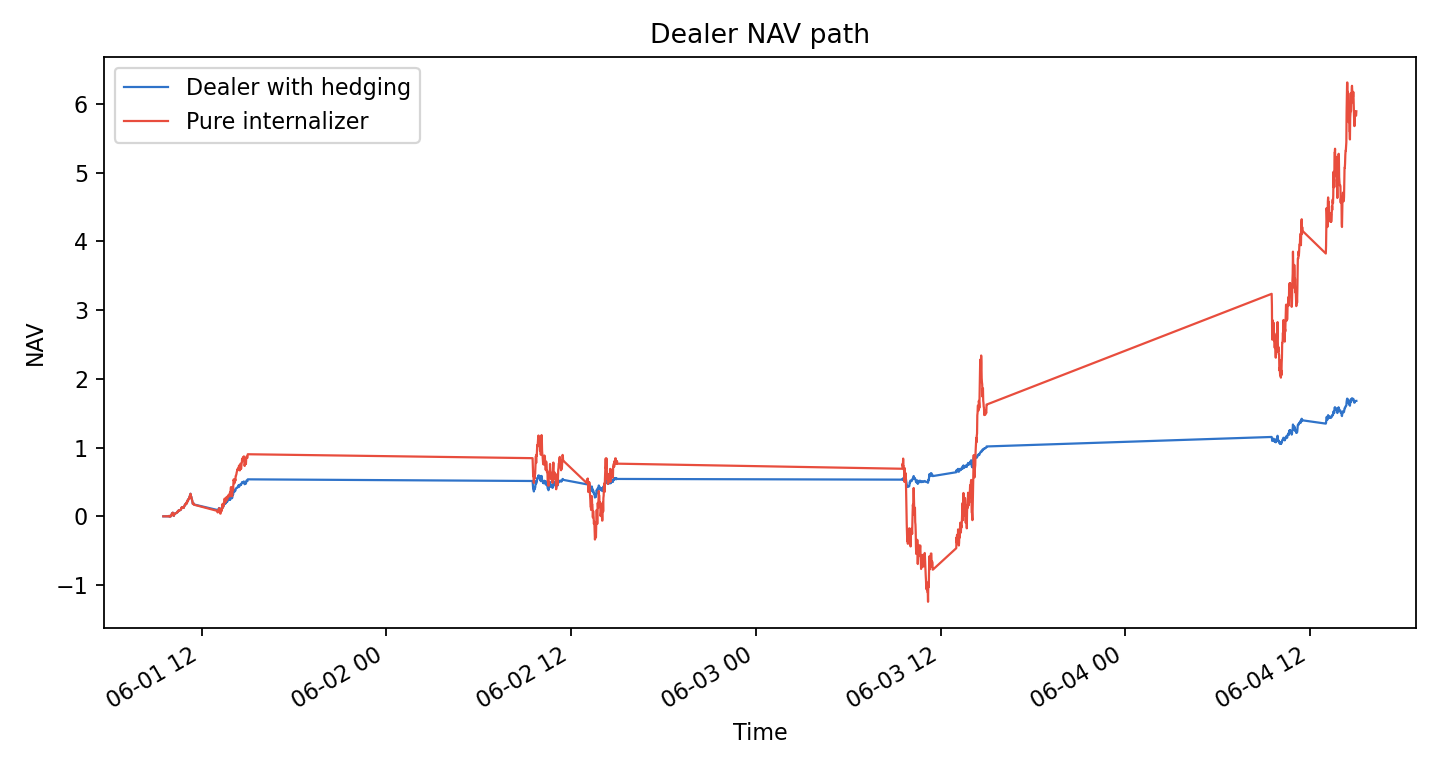
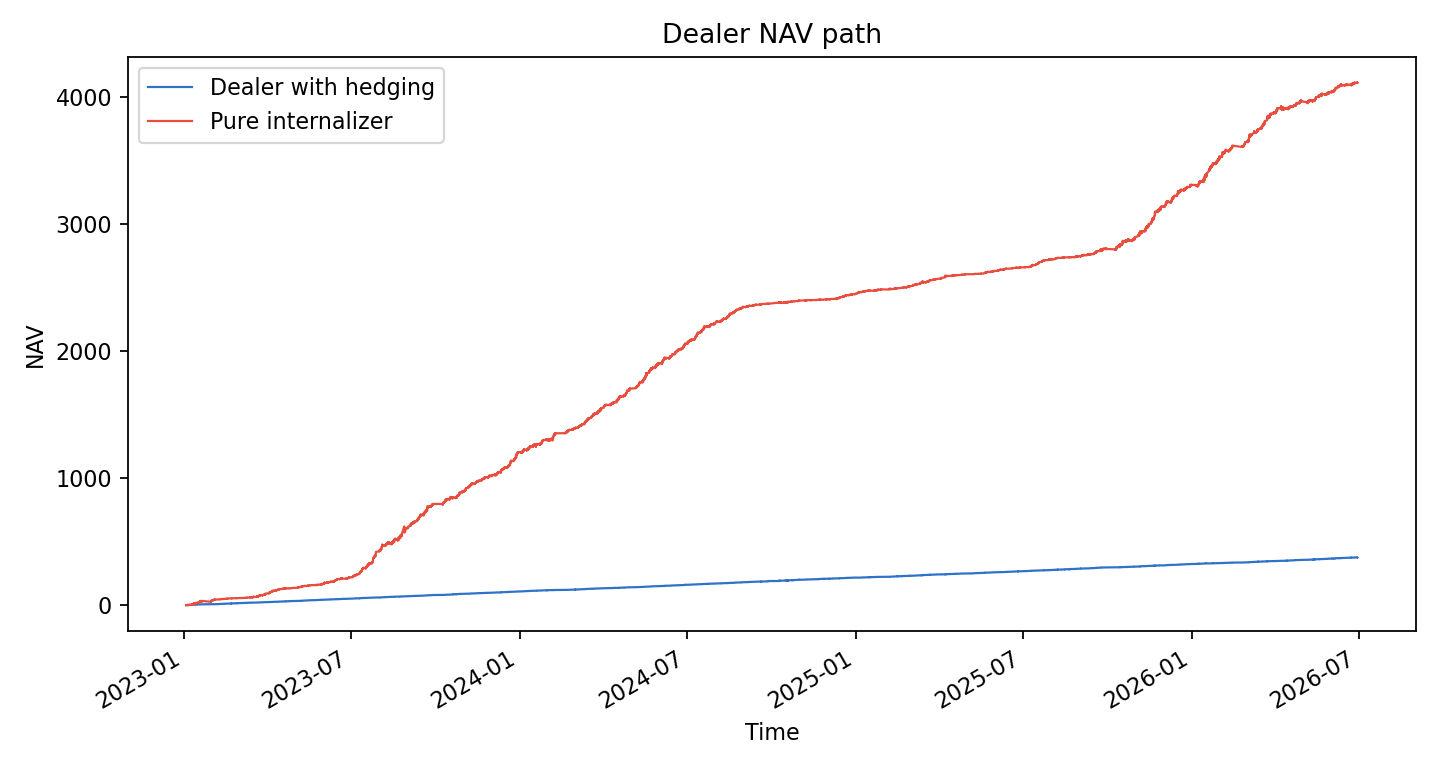
research: extend dealer hedging minute backtest

diff --git a/scripts/run_research_pipeline.py b/scripts/run_research_pipeline.py
@@ -22,10 +22,27 @@ from src.dealer_model import DealerParams, hedge_quantity, quote_adjustment
 
 
 def fetch_minute(ts_code: str, start_date: str, end_date: str) -> pd.DataFrame:
-    df = ts.pro_bar(ts_code=ts_code, start_date=start_date, end_date=end_date, freq="1min", asset="FD", adj=None)
-    if df is None or df.empty:
+    start = pd.to_datetime(start_date, format="%Y%m%d")
+    end = pd.to_datetime(end_date, format="%Y%m%d")
+    frames = []
+    for month_start in pd.date_range(start=start.replace(day=1), end=end, freq="MS"):
+        chunk_start = max(month_start, start)
+        chunk_end = min(month_start + pd.offsets.MonthEnd(0), end)
+        df = ts.pro_bar(
+            ts_code=ts_code,
+            start_date=chunk_start.strftime("%Y%m%d"),
+            end_date=chunk_end.strftime("%Y%m%d"),
+            freq="1min",
+            asset="FD",
+            adj=None,
+        )
+        if df is not None and not df.empty:
+            frames.append(df)
+    if not frames:
         raise RuntimeError("No minute data returned from Tushare.")
+    df = pd.concat(frames, ignore_index=True)
     df = df.sort_values("trade_time").reset_index(drop=True)
+    df = df.drop_duplicates(subset=["ts_code", "trade_time"], keep="last").reset_index(drop=True)
     df["trade_time"] = pd.to_datetime(df["trade_time"])
     return df
 
@@ -123,7 +140,7 @@ def plot(paths: pd.DataFrame, out_dir: Path) -> None:
 def main() -> None:
     parser = argparse.ArgumentParser()
     parser.add_argument("--ts-code", default="510300.SH")
-    parser.add_argument("--start-date", default="20260601")
+    parser.add_argument("--start-date", default="20230101")
     parser.add_argument("--end-date", default="20260605")
     parser.add_argument("--seed", type=int, default=20260706)
     args = parser.parse_args()

diff --git a/README.md b/README.md
@@ -21,7 +21,7 @@
 
 本项目复现 Barzykin, Bergault 与 Guéant 的前沿论文 **Algorithmic market making in dealer markets with hedging and market impact** 的核心思想：dealer 不必永远只靠客户报价 internalize 库存风险；当库存超出合理区间时，可以通过外部市场对冲，把风险外部化，但要付出市场冲击成本。
 
-使用 Tushare `510300.SH` 沪深 300 ETF 的 1 分钟数据做代理回测。窗口为 `2026-06-01 09:30:00` 到 `2026-06-04 15:00:00`，共 964 条分钟 bar。带 hedge 的 dealer 库存标准差为 **3.18**，低于纯 internalizer 的 **17.73**；NAV 波动为 **0.46**，低于纯 internalizer 的 **1.80**。代价是最终 NAV 从 **5.89** 降至 **1.68**。
+使用 Tushare `510300.SH` 沪深 300 ETF 的 1 分钟数据做代理回测。窗口为 `2023-01-03 09:30:00` 到 `2026-06-29 15:00:00`，共 **196,415** 条分钟 bar。带 hedge 的 dealer 库存标准差为 **5.24**，低于纯 internalizer 的 **144.60**；NAV 波动为 **108.46**，低于纯 internalizer 的 **1193.06**。代价是最终 NAV 从 **4111.29** 降至 **375.82**。
 
 ### 快速导航
 
@@ -70,8 +70,8 @@
 | 字段 | 数值 |
 |---|---:|
 | 标的 | `510300.SH` 沪深 300 ETF |
-| 窗口 | `2026-06-01 09:30:00` 至 `2026-06-04 15:00:00` |
-| 分钟观测数 | 964 |
+| 窗口 | `2023-01-03 09:30:00` 至 `2026-06-29 15:00:00` |
+| 分钟观测数 | 196,415 |
 | Level2 | 不可用，当前为分钟 bar + 客户流代理 |
 | hedge 阈值 | 8 |
 | hedge 比例 | 55% 的超额库存 |
@@ -84,8 +84,8 @@
 
 | 策略 | 最终 NAV | NAV std | 库存均值 | 库存 std | 平均绝对库存 | 客户成交 | hedge 次数 |
 |---|---:|---:|---:|---:|---:|---:|---:|
-| 带 hedge 的 dealer | 1.68 | **0.46** | -4.81 | **3.18** | **5.14** | 210 | 54 |
-| 纯 internalizer | **5.89** | 1.80 | -30.20 | 17.73 | 30.35 | 210 | 0 |
+| 带 hedge 的 dealer | 375.82 | **108.46** | 0.05 | **5.24** | **4.54** | 43,008 | 9,137 |
+| 纯 internalizer | **4111.29** | 1193.06 | 23.96 | 144.60 | 120.02 | 43,008 | 0 |
 
 结果解释：外部 hedge 降低库存风险和 NAV 波动，但牺牲短窗口利润。这个风险-收益取舍正是论文的核心机制。
 
@@ -125,8 +125,8 @@ pip install -r requirements.txt
 
 python scripts/run_research_pipeline.py \
   --ts-code 510300.SH \
-  --start-date 20260601 \
-  --end-date 20260605
+  --start-date 20230101 \
+  --end-date 20260630
 
 python -m pytest -q
 ```
@@ -139,7 +139,7 @@ python -m pytest -q
 
 This project reproduces the core idea of Barzykin, Bergault, and Guéant, **Algorithmic market making in dealer markets with hedging and market impact**: a dealer can internalize client flow inside an inventory band, but externalize inventory through hedging once the position becomes too large.
 
-On 964 Tushare one-minute bars for `510300.SH`, the hedging dealer reduces inventory standard deviation to **3.18** versus **17.73** for a pure internalizer. NAV volatility falls to **0.46** versus **1.80**, while final NAV is lower because hedging pays market-impact costs.
+On **196,415** Tushare one-minute bars for `510300.SH`, the hedging dealer reduces inventory standard deviation to **5.24** versus **144.60** for a pure internalizer. NAV volatility falls to **108.46** versus **1193.06**, while final NAV is lower because hedging pays market-impact costs.
 
 ### Navigation
 
@@ -188,8 +188,8 @@ On 964 Tushare one-minute bars for `510300.SH`, the hedging dealer reduces inven
 | Field | Value |
 |---|---:|
 | Asset | `510300.SH` CSI 300 ETF |
-| Window | `2026-06-01 09:30:00` to `2026-06-04 15:00:00` |
-| Minute bars | 964 |
+| Window | `2023-01-03 09:30:00` to `2026-06-29 15:00:00` |
+| Minute bars | 196,415 |
 | Level2 | Not available; this is a minute-bar and client-flow proxy |
 | Hedge threshold | 8 |
 | Hedge fraction | 55% of excess inventory |
@@ -202,8 +202,8 @@ The project uses minute-level data as required, but it is not a Level2 dealer-ma
 
 | Strategy | Final NAV | NAV Std | Inventory Mean | Inventory Std | Mean Abs Inventory | Client Fills | Hedge Trades |
 |---|---:|---:|---:|---:|---:|---:|---:|
-| Dealer with hedging | 1.68 | **0.46** | -4.81 | **3.18** | **5.14** | 210 | 54 |
-| Pure internalizer | **5.89** | 1.80 | -30.20 | 17.73 | 30.35 | 210 | 0 |
+| Dealer with hedging | 375.82 | **108.46** | 0.05 | **5.24** | **4.54** | 43,008 | 9,137 |
+| Pure internalizer | **4111.29** | 1193.06 | 23.96 | 144.60 | 120.02 | 43,008 | 0 |
 
 ### Key Figures
 
@@ -236,7 +236,7 @@ The project uses minute-level data as required, but it is not a Level2 dealer-ma
 
 ```bash
 pip install -r requirements.txt
-python scripts/run_research_pipeline.py --ts-code 510300.SH --start-date 20260601 --end-date 20260605
+python scripts/run_research_pipeline.py --ts-code 510300.SH --start-date 20230101 --end-date 20260630
 python -m pytest -q
 ```
 